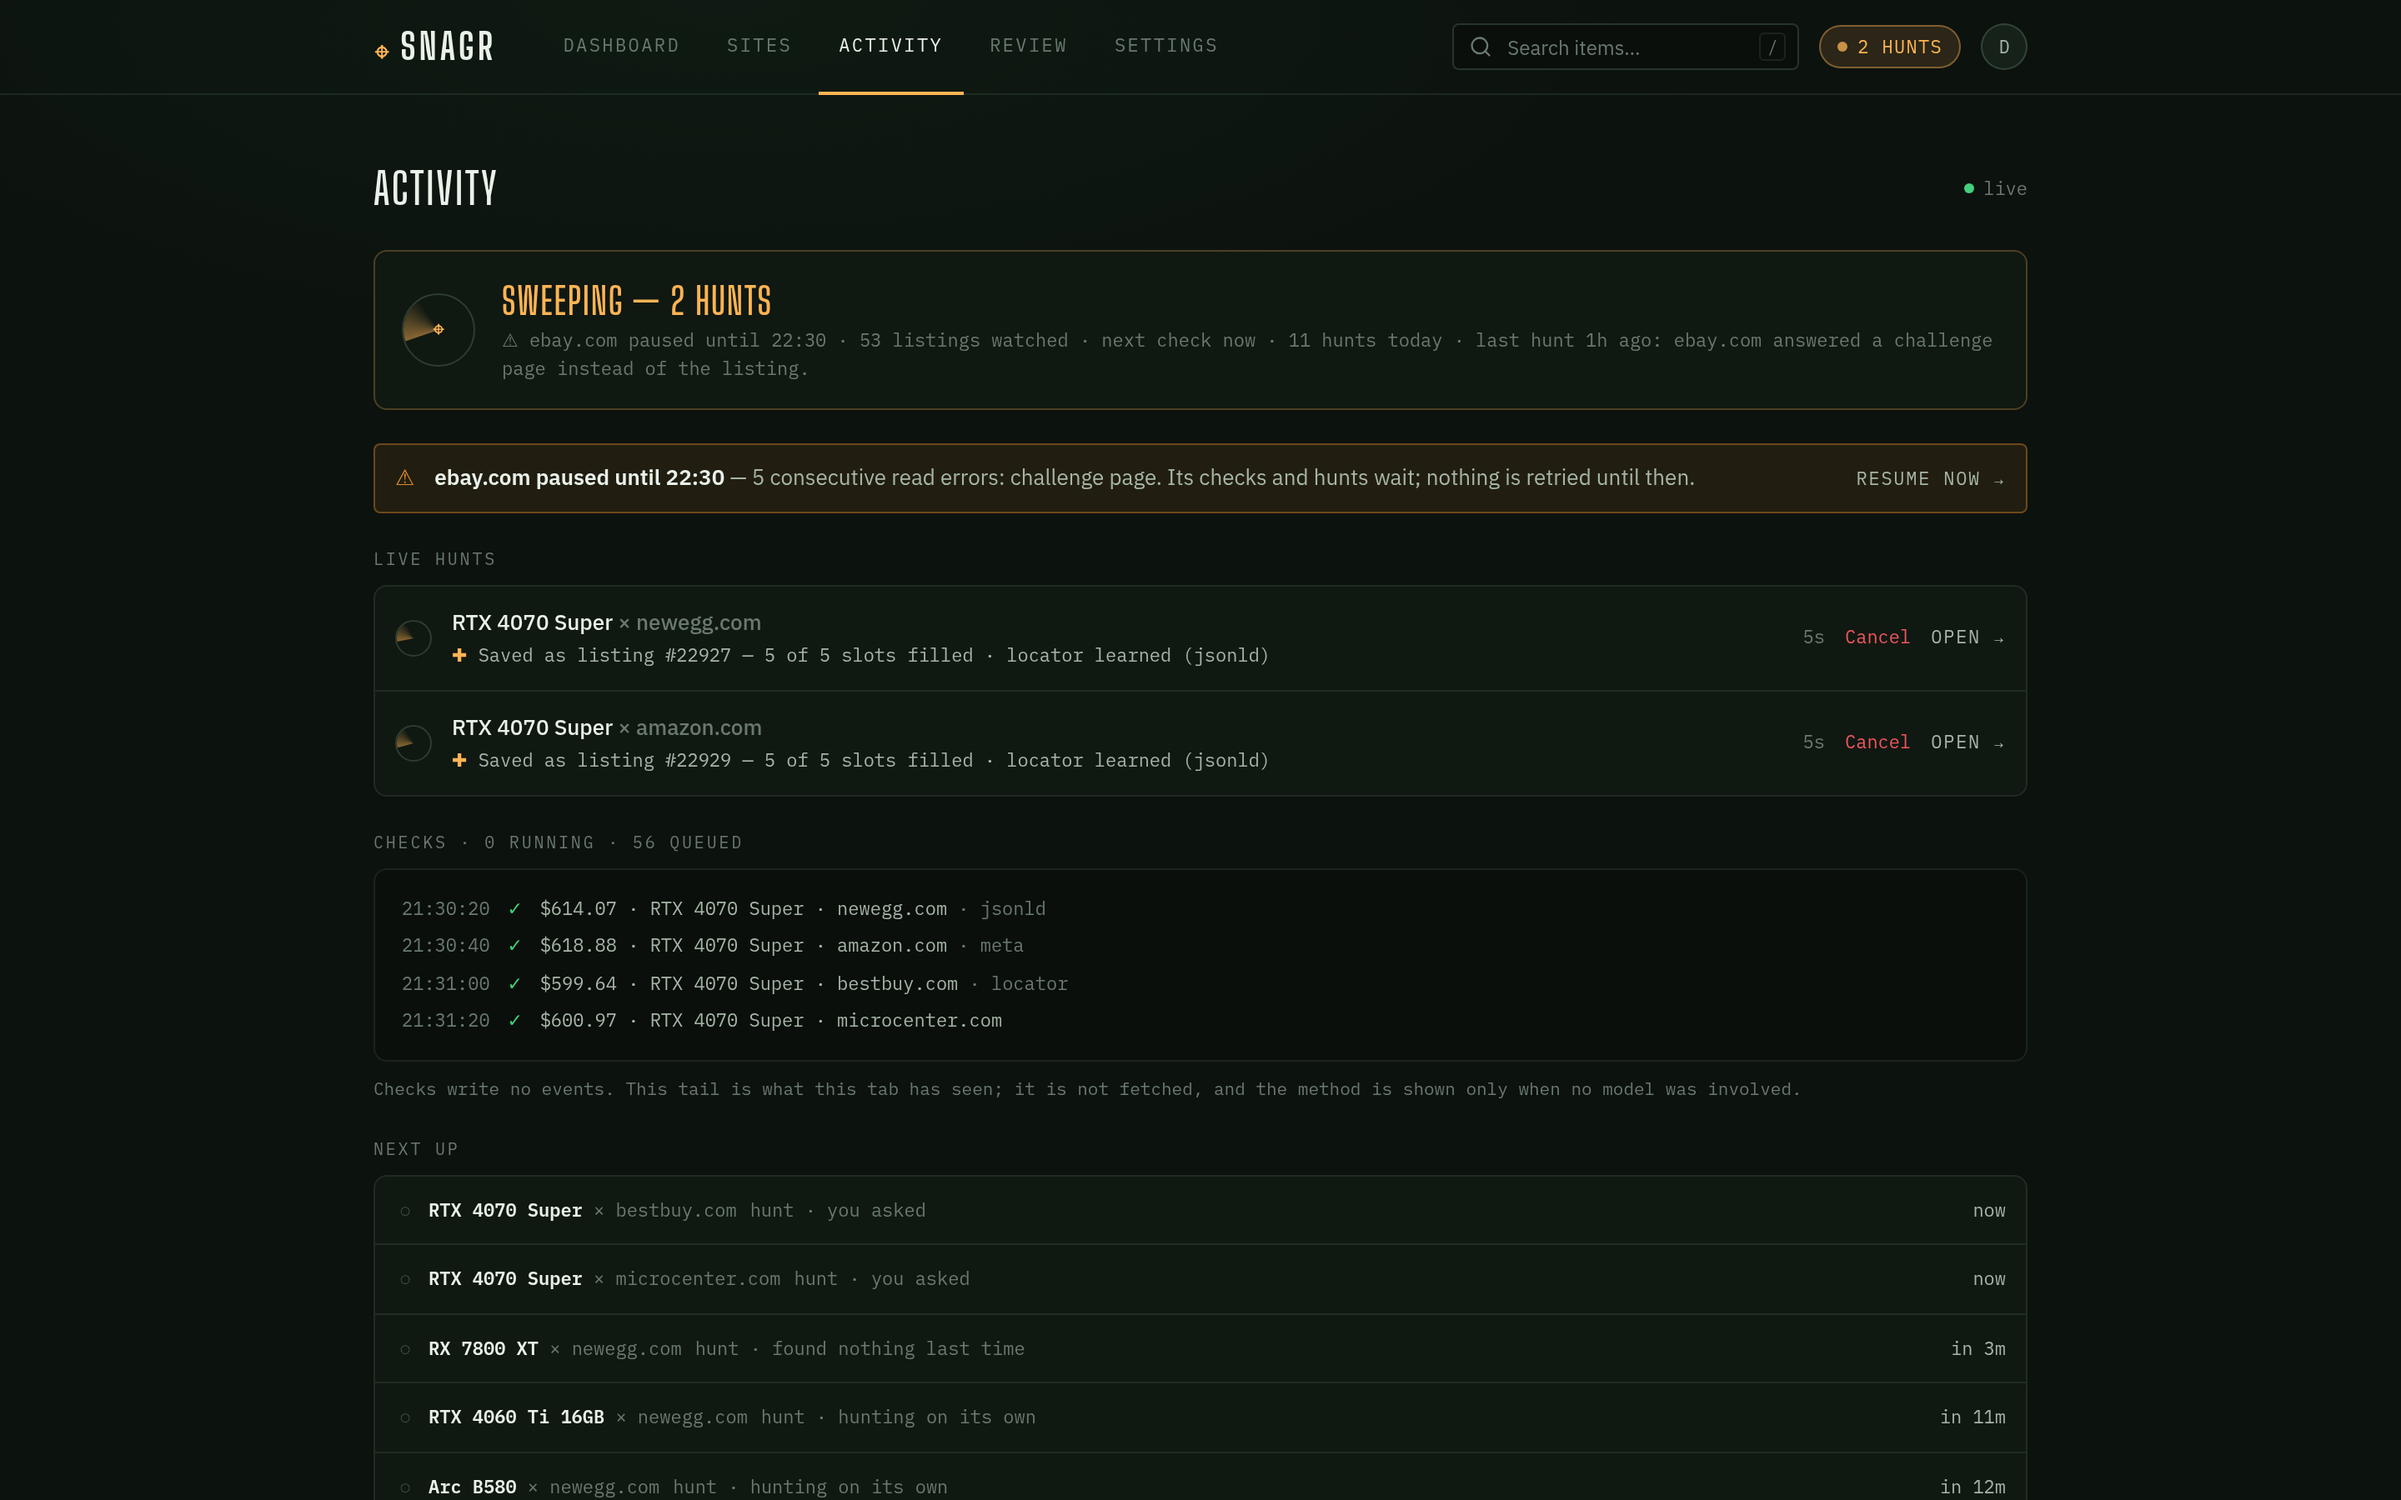
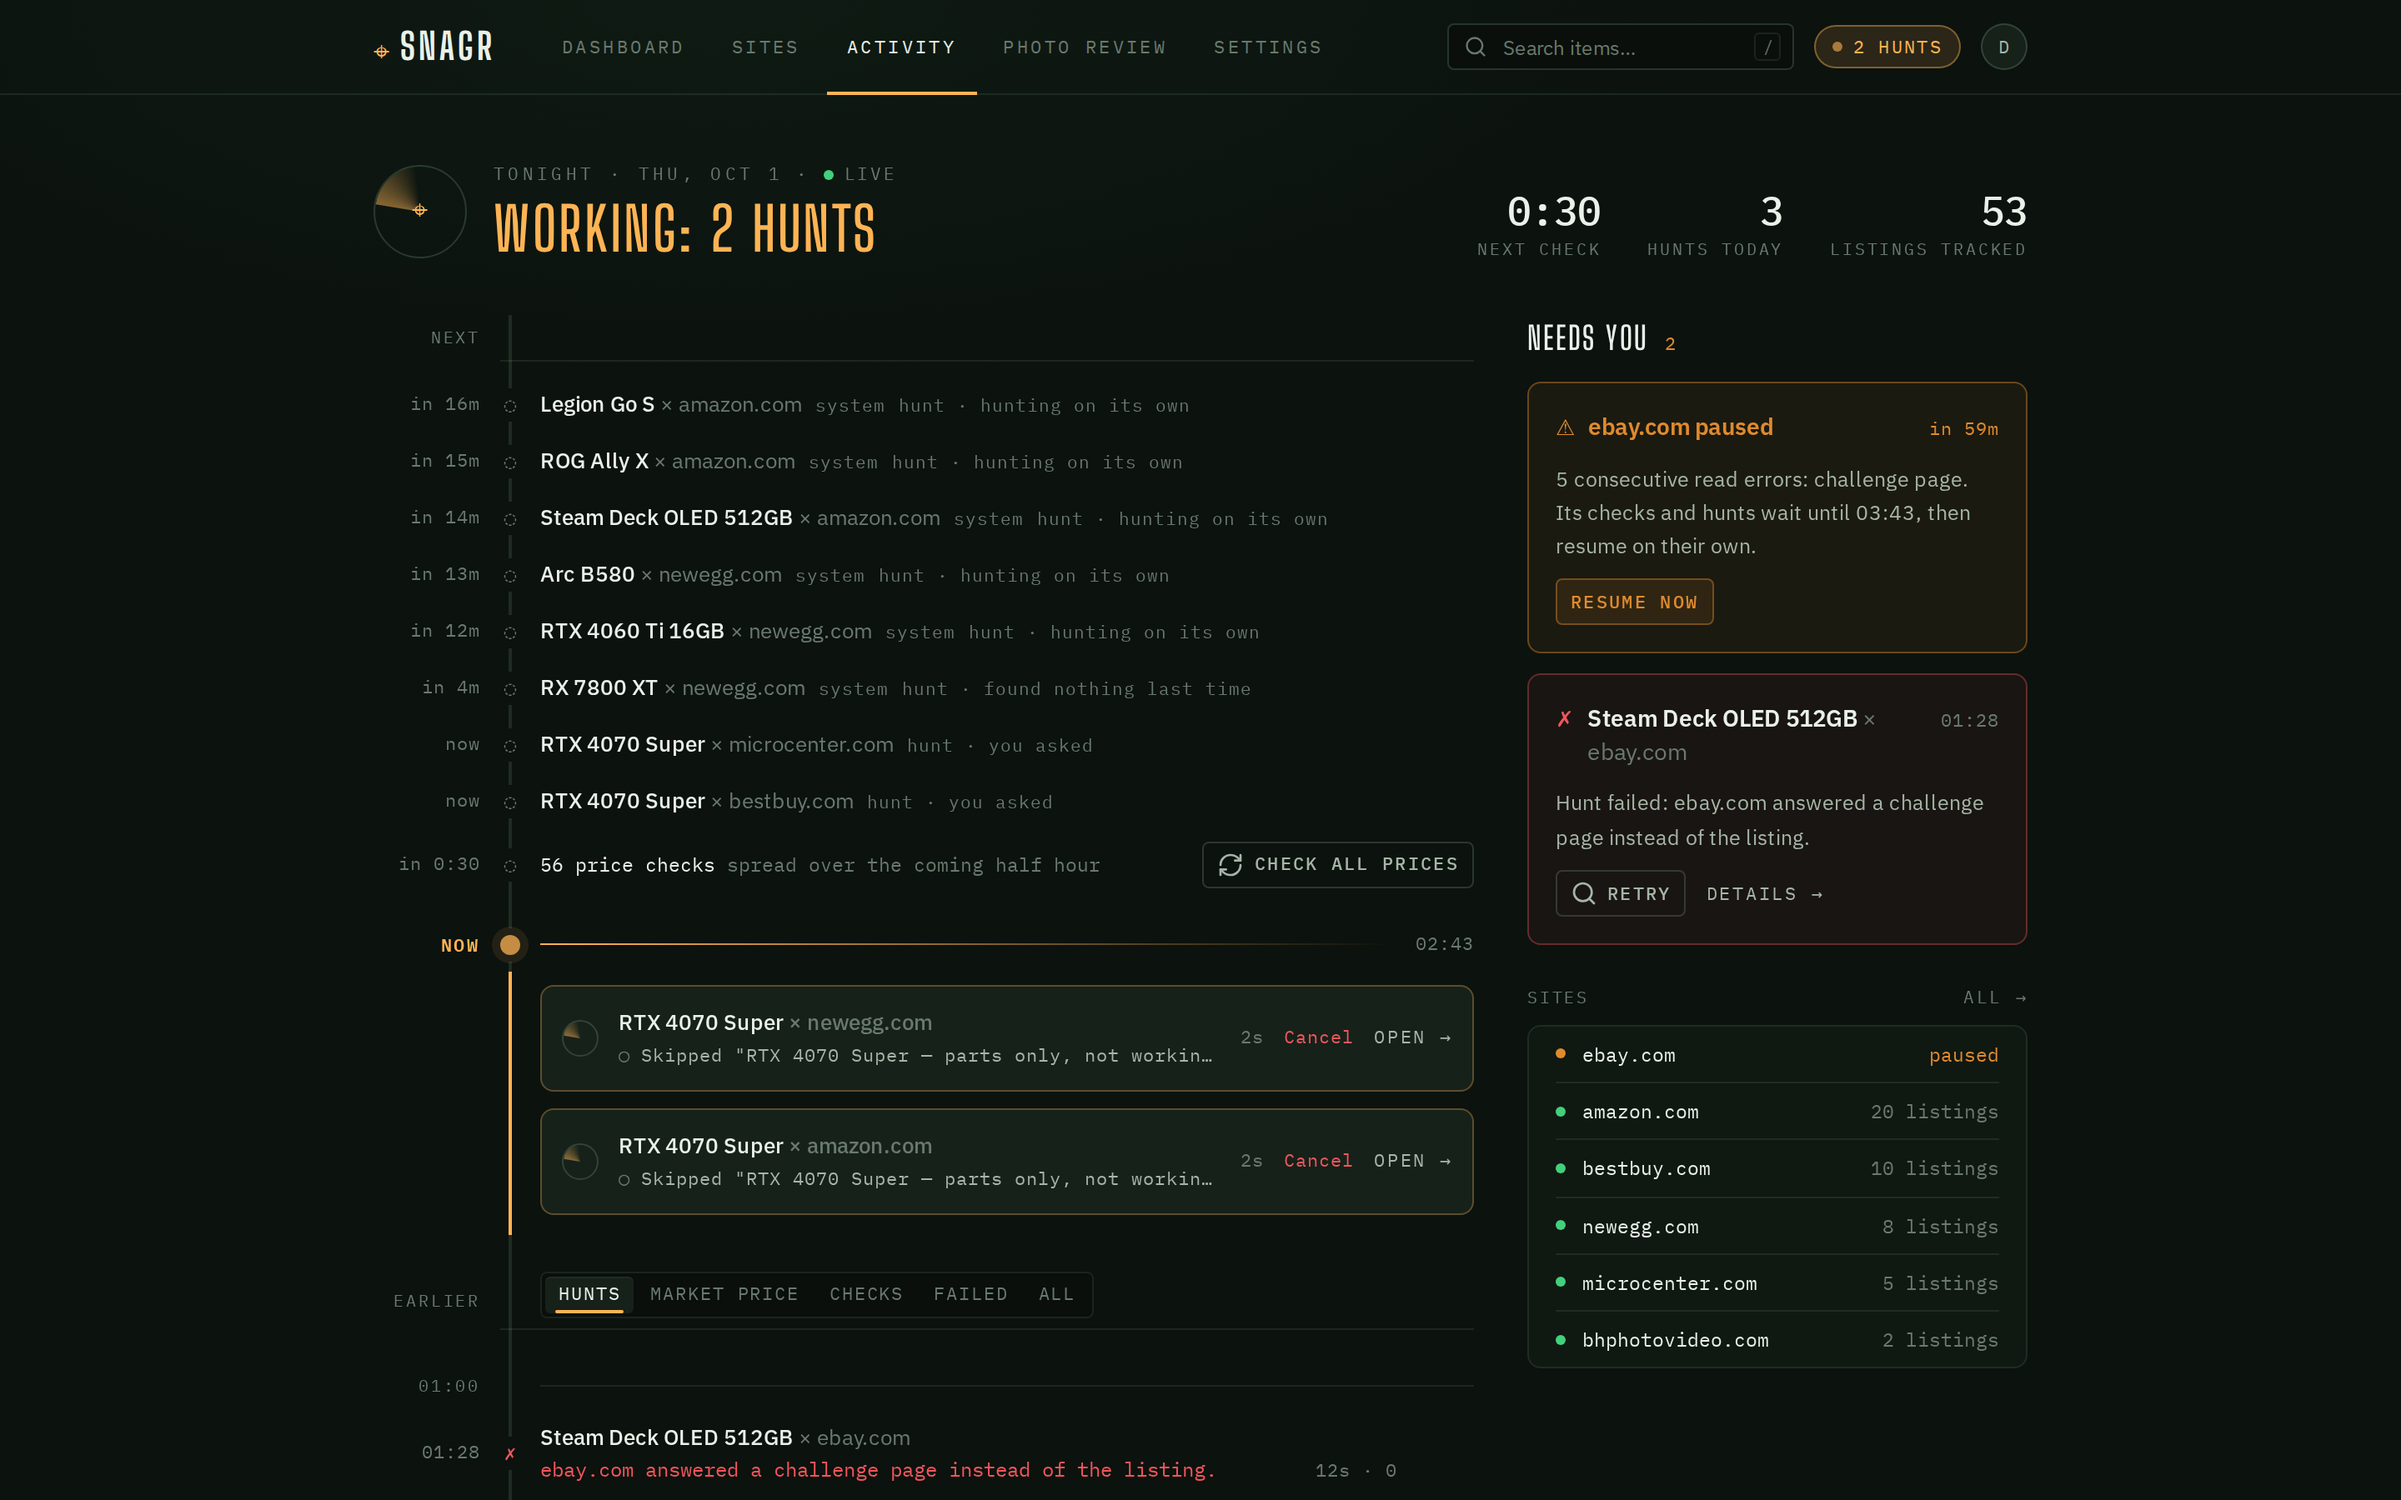
docs: add 0.8 upgrade notes and refresh README screenshots
Claude-Session: https://claude.ai/code/session_01PkZ21FLD1QV1yoSrjoXTjj

diff --git a/README.md b/README.md
@@ -9,11 +9,11 @@ A self-hosted price tracker for secondhand-marketplace hunting. You describe wha
 
 **Status: early (0.x).** The whole stack runs end to end, every push to `main` publishes container images, and release-please cuts a tagged release from the [CHANGELOG](CHANGELOG.md). Expect rough edges, and read the release notes before upgrading between minor versions.
 
-![The dashboard: tonight's verdict, the hunter's status ticker, and every watched item with trend, best price, site, and distance to target](docs/screenshots/dashboard.png)
+![The dashboard: tonight's verdict, the hunter's status line, and your items grouped into collapsible category shelves, each row with trend, best price, site, and distance to target](docs/screenshots/dashboard.png)
 
-![The Activity page: two hunts running live, a paused site, the stream of price checks, and what the hunter does next](docs/screenshots/activity.png)
+![The Activity page: a timeline of what the hunter does next, the two hunts running now and the history behind them, with a Needs you column for a paused site and a failed hunt](docs/screenshots/activity.png)
 
-![An item: the price headline and hunt controls, per-listing price history against the target line, and each listing on a price rail](docs/screenshots/item-detail.png)
+![An item: the price headline and hunt controls, per-listing price history against the target line, the tracking settings, and each listing on a price rail](docs/screenshots/item-detail.png)
 
 *All three screenshots are the frontend's built-in mock data (see [Development](#development)).*
 
@@ -35,9 +35,9 @@ A self-hosted price tracker for secondhand-marketplace hunting. You describe wha
 
 ## Features
 
-- **Watches, not bookmarks** — track an *item* across several marketplace sites at once, with a target price, free-form criteria the agent applies when judging listings, a selection mode (`cheapest` or `best_match`), and a slot budget so a watch never balloons past the number of listings you asked for.
+- **Watches, not bookmarks** — track an *item* across several marketplace sites at once, with a target price, free-form criteria the agent applies when judging listings, a selection mode (`cheapest` or `best_match`), and a listing budget so a watch never tracks more listings than you asked for.
 - **LLM scraping through a real browser** — the agent works marketplace pages via [Playwright MCP](https://github.com/microsoft/playwright-mcp), so it sees what you'd see. The model is pluggable: any [LangChain `init_chat_model`](https://python.langchain.com/docs/how_to/chat_models_universal_init/) provider via four env vars. The agent ships adapters for OpenRouter, OpenAI, Anthropic, Google, Ollama, Groq, Mistral, Together, Fireworks, xAI, DeepSeek, Cohere, and AWS Bedrock.
-- **An agent that is always on** — the agent is a daemon working a queue, not a batch job you start. A new watch is being hunted within seconds, and keeps being hunted on its own while it has open slots — backing off from 15 minutes to 6 hours while a site has nothing new, and stopping once every slot is filled until one frees. On a full watch, **Hunt for better** asks for one more look: a hunt that swaps out the weakest tracked listing only for something better (in cheapest mode, only for a strictly lower price). Tracked listings are re-read on their own every half hour, or at a watch's own interval; **Hunt now** and **Check prices** jump the queue; and a watch can switch its own hunting off. The Activity page shows every hunt's log live, what is queued next, and the history.
+- **An agent that is always on** — the agent is a daemon working a queue, not a batch job you start. A new watch is being hunted within seconds, and keeps being hunted on its own while it has room for more listings — backing off from 15 minutes to 6 hours while a site has nothing new, and stopping once every listing is tracked until one is dropped. On a full watch, **Hunt for better** asks for one more look: a hunt that swaps out the weakest tracked listing only for something better (in cheapest mode, only for a strictly lower price). Tracked listings are re-read on their own every half hour, or at a watch's own interval; **Hunt now** and **Check prices** jump the queue; and a watch can switch its own hunting off. The Activity page shows every hunt's log live, what is queued next, and the history.
 - **Most re-checks never call the model** — the first time the model confirms a listing's price, code learns where on that page the price lives and replays that on every later check; where the same locator works against the raw HTML, the check is a plain HTTP GET with no browser at all. A site that starts answering challenge pages trips a circuit breaker and is left alone — an hour at first, doubling on each repeat trip up to a day — rather than burning tokens on every listing.
 - **Price history that means something** — every re-check is recorded; best/average price, sparklines, and percent drift are derived from the raw checks. Prices are `Numeric(10,2)` in the database and decimal strings in the API, never floats. A reading wildly out of line is recorded but disbelieved — it never counts, and only a second read that agrees with it is believed — and auction bids are never recorded as prices (Buy It Now is the exception), so neither a scraping slip nor a $1 opening bid can fake a target hit.
 - **Market-price grounding** — the agent periodically researches a reference market price per item and condition tier (price guides first, then a broad [SearXNG](https://docs.searxng.org) snippet search) so "is this a deal?" has a denominator.
@@ -130,7 +130,7 @@ The compose `agent` service runs `main.py --serve`: the hunter LISTENs for work 
 2. **Add the marketplaces** you hunt on: Sites → **Add site** (a name and a base URL).
 3. **Group them into a category**: **New category**, then edit it to link its sites. The hunter searches an item on its category's sites, so a category with no sites gets no hunts.
 4. **Add an item**: **Add item**, pick the category, name the thing you want and (optionally) a target price. On the item page, **Edit tracking** sets what you're looking for (the criteria the agent judges listings by), how to pick listings, how many to track, the check interval, whether it hunts on its own, and which of the category's sites to search.
-5. **Watch it work.** The first hunt starts within seconds — follow it on the Activity page. From then on the watch is hunted while it has open slots and its listings are re-checked on their own; set up a channel under Settings → Notifications to hear about target hits.
+5. **Watch it work.** The first hunt starts within seconds — follow it on the Activity page. From then on the watch is hunted while it has room for more listings and its listings are re-checked on their own; set up a channel under Settings → Notifications to hear about target hits.
 
 ## Deploying from the images
 
@@ -164,6 +164,14 @@ Images are published for `linux/amd64` only — on arm64, build from source. The
 
 — and enabling it and re-running the migration is the whole upgrade; no data changes.
 
+**From 0.7 to 0.8.**
+
+- **`JWT_SECRET` is now required.** The backend refuses to start on the old `dev-only-change-me` default, on `.env.example`'s `CHANGE_ME` placeholder, or on anything shorter than 32 bytes. Generate one with `python -c 'import secrets; print(secrets.token_urlsafe(48))'` and set it in `backend/.env` *before* restarting. Changing it signs everyone out.
+- **Migrations 019–022 tidy existing data**, and none of it needs your attention unless you want to rename what they flag. Target prices stored as `NaN` are cleared (the watch keeps tracking, with no target). Items that shared a name within a category (ignoring case) are merged into the oldest, with their watches, listings and jobs; the ones that can't merge are renamed `<name> (duplicate <id>)`. Categories and sites that shared a name are renamed the same way, and blank names become `Untitled item/category/site <id>`. Look for `(duplicate` in your item, category and site lists after upgrading. Downgrading does not un-merge.
+- **Sign-ins carry over.** Migration 022 groups refresh tokens into sign-in families; access tokens minted before the upgrade are refused once and the app refreshes them silently. From then on a password change ends your other sessions, and a replayed refresh token ends its whole sign-in.
+- **Behind a reverse proxy**, set `FORWARDED_ALLOW_IPS` to the proxy's address or subnet, or every visitor shares one sign-in rate limit (see `backend/.env.example`).
+- **Grounding has its own worker pool** (`GROUND_CONCURRENCY`, default 1) so a suspended SearXNG no longer holds hunts back. Category and site writes are admin-only. `SITE_BREAKER_ERRORS=0` now switches the circuit breaker off.
+
 **Settings that live on both sides.** `HUNT_ENABLED`, `RECHECK_INTERVAL_MINUTES` and `RECHECK_INTERVAL_FLOOR_MINUTES` are read by the agent (which acts on them) *and* the backend (which reports and enforces them in the UI and API). When a release adds one of these, set it in both env files with the same value.
 
 ## Configuration
@@ -191,7 +199,7 @@ The sidecar embeds listing photos with DINOv3 and scores them against each item'
 2. Set `VISION_SIDECAR_URL=http://vision:8100` in `backend/.env` and `agent/.env.docker`. The profile only starts the sidecar; each component switches the feature on when that var is set (use `http://localhost:8100` only when the backend or agent runs on the host).
 3. `docker compose --profile vision up --build`.
 
-The [DINOv3 weights](https://huggingface.co/facebook/dinov3-vits16plus-pretrain-lvd1689m) are license-gated: accept the license and set `HF_TOKEN` in `vision/.env`, or the sidecar starts degraded (`/health` says so) and scoring is skipped. Review surfaces (the Review tab, authenticity badges, the reference library) appear in the UI only while the feature is on.
+The [DINOv3 weights](https://huggingface.co/facebook/dinov3-vits16plus-pretrain-lvd1689m) are license-gated: accept the license and set `HF_TOKEN` in `vision/.env`, or the sidecar starts degraded (`/health` says so) and scoring is skipped. Review surfaces (the Photo Review page, authenticity badges, the reference library) appear in the UI only while the feature is on.
 
 ## Connecting an agent (MCP)
 
